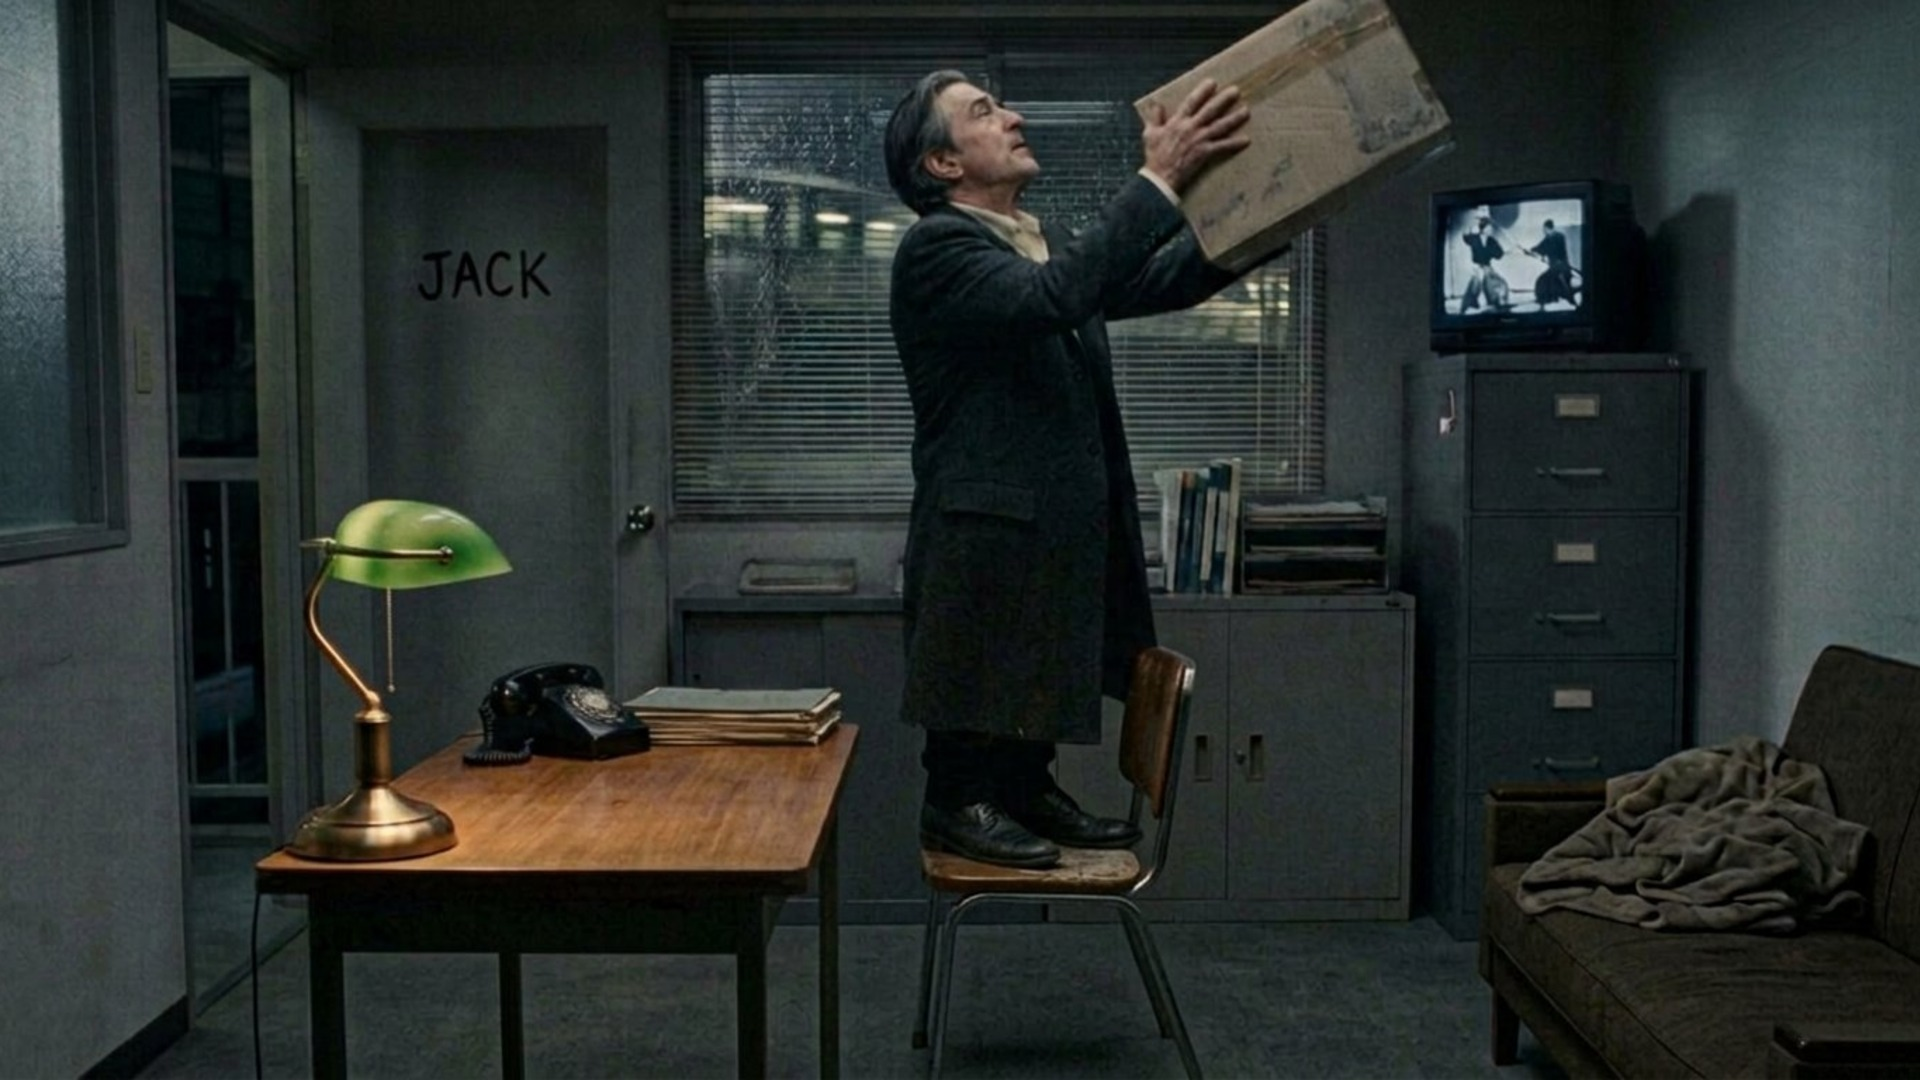
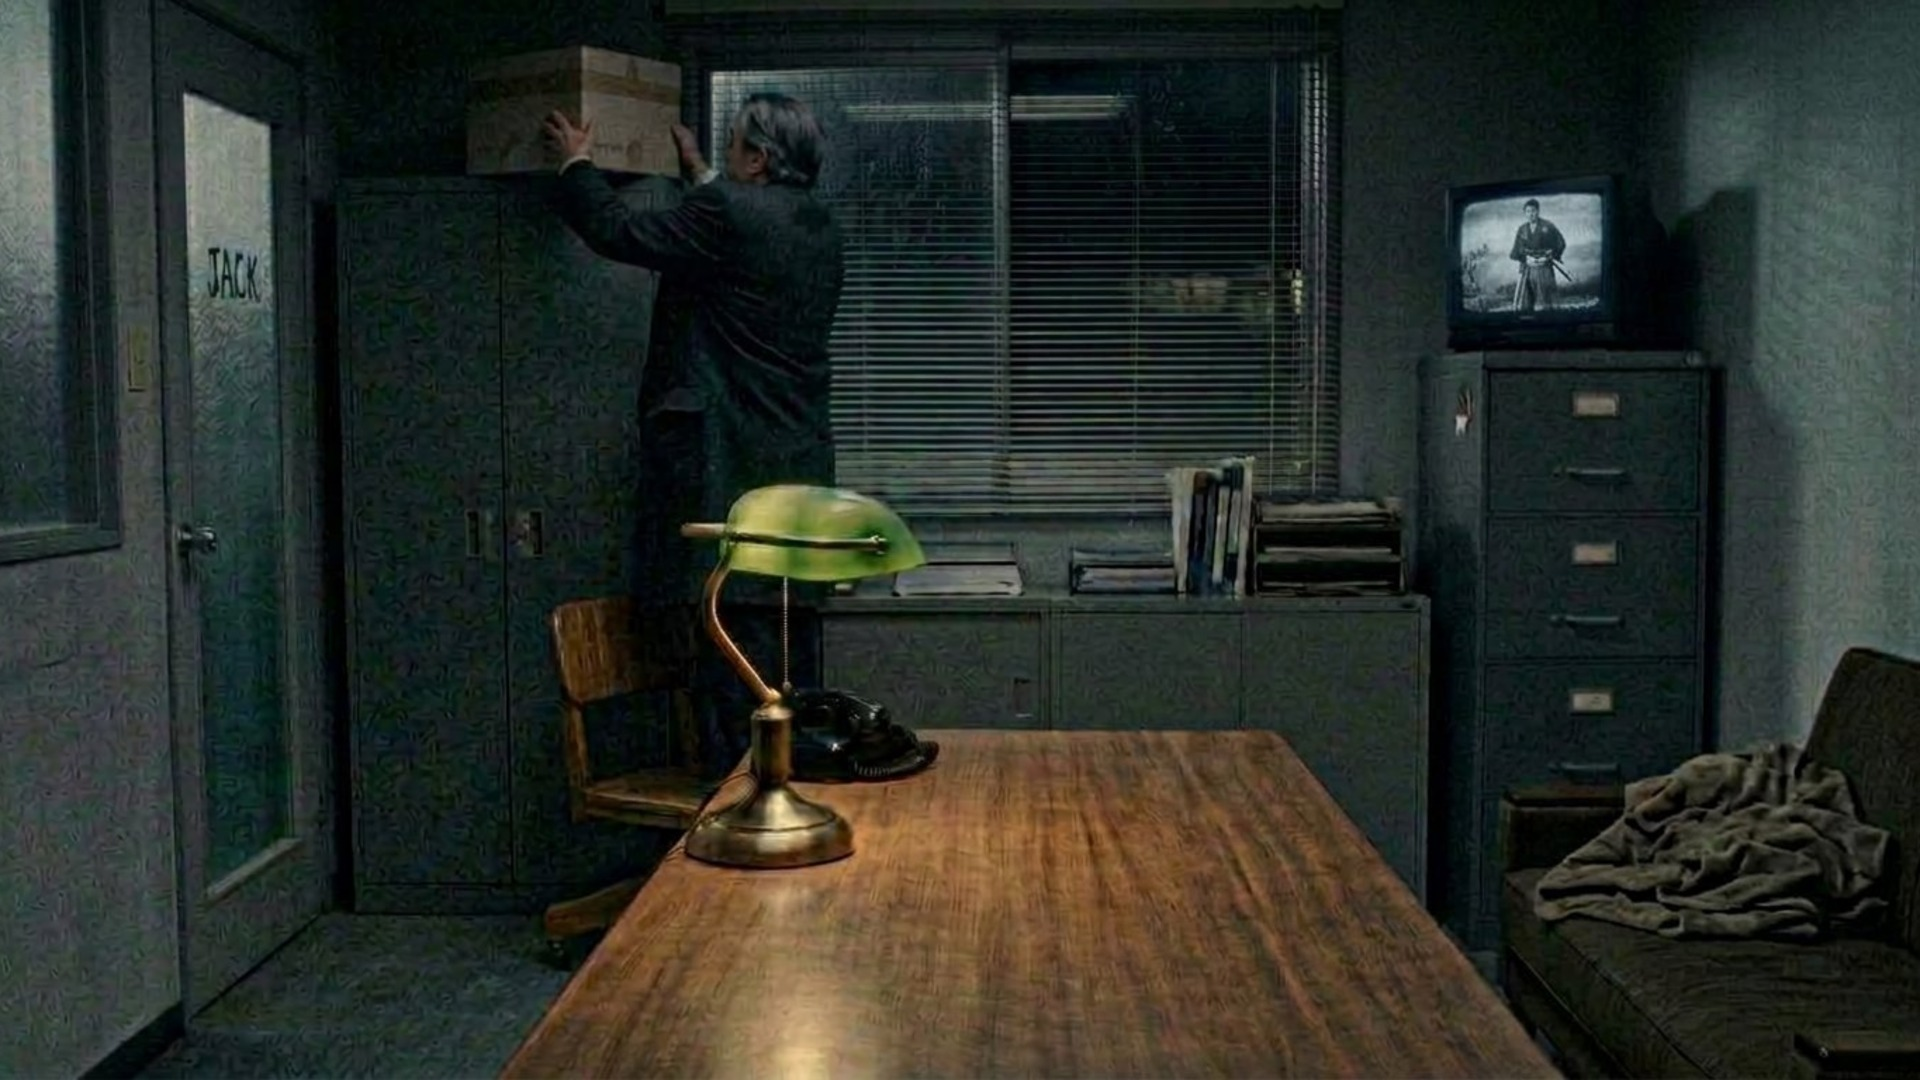
Neonoire: card out of the puddle (6/62); box from a cupboard and fixed desk size in Jack's office (11/243, 11/249)

diff --git a/docs/neonoire/scenes/n11-jacks-office-later.md b/docs/neonoire/scenes/n11-jacks-office-later.md
@@ -21,19 +21,19 @@ LIGHT: Practical night
 TIME: 8
 ID: neonoire-shot-169
 IMAGE: 167-two-men-laughing.jpg
-NOTE: The second attempt; the first made the two men look alike and was discarded. The clipping is shot 246, lettered. The box coming down is shot 245, with a chair caveat — a retake this session still left his feet on the floor. The call to Ishida is shot 251. The lighter is shot 252.
+NOTE: The second attempt; the first made the two men look alike and was discarded. The clipping is shot 246, lettered. The box coming down is shot 245: the box comes off the top of the tall steel cupboard between the door and the window (director correction, 1 October 2026); his feet remain on the floor in the frame, a standing caveat. The call to Ishida is shot 251. The lighter is shot 252.
 
 ---
 
 245. WIDE — 35mm, static, eye level — the box.
-Past midnight. Jack lifts a dusty cardboard box down from the top of the filing cabinet. The green lamp, the rotary phone, the sofa, the blinds. The CRT plays a samurai film.
+Past midnight. Jack lifts a dusty cardboard box down from the top of the tall grey steel cupboard between the door and the window. The long desk of scene 10, the green lamp, the rotary phone, the sofa, the blinds. The CRT plays a samurai film.
 SCRIPT: "Jack stands on a chair and takes down a cardboard box from the top of a cupboard. Dust on the lid. He hasn't opened it in years."
 CAST: Jack
 LIGHT: Practical night
 TIME: 8
 ID: neonoire-shot-245
 IMAGE: 243-the-box.jpg
-NOTE: Coverage, shot 245, the wide shot 169's note asked for. The office follows s10/164-depends-whos-calling.jpg; Jack follows sheets/jack.jpg. The door reads JACK. The CRT is on and never static: the office's muted black-and-white samurai film, even though the draft writes static. Retake: both feet are on the chair seat.
+NOTE: Coverage, shot 245, the wide shot 169's note asked for. The office follows s10/164-depends-whos-calling.jpg; Jack follows sheets/jack.jpg. The door reads JACK. Director correction, 1 October 2026: the box visibly comes down from the top of a tall steel cupboard (the earlier frame lifted it from empty air), and the desk is the long desk of s10/164-depends-whos-calling.jpg, which is the office's fixed desk size. The CRT is on and never static: the office's muted black-and-white samurai film, even though the draft writes static. Caveat: he reaches from the floor beside the chair, not standing on the chair seat.
 
 246. INSERT — 85mm, static, high angle — daniel voss 41.
 Under the green lamp, a yellowed clipping. The photograph is Daniel, not Jack. The headline and the caption are lettered.
@@ -48,14 +48,14 @@ NOTE: Coverage, shot 246. Daniel is held to s4/35-the-photograph.jpg, not to Jac
 ---
 
 251. MEDIUM — 50mm, static, eye level — the line goes dead.
-Jack sits at the desk under the green lamp, the rotary receiver at his ear. Rain on the blinds. The CRT plays a samurai film. The door reads JACK.
+Jack sits behind the long desk under the green lamp, the rotary receiver at his ear, the open box, notebook and clipping in front of him. Rain on the blinds. The CRT plays a samurai film. The door reads JACK; the tall cupboard stands between the door and the window.
 SCRIPT: "The line goes dead. Jack holds the receiver a moment longer."
 CAST: Jack
 LIGHT: Practical night
 TIME: 8
 ID: neonoire-shot-251
 IMAGE: 249-the-line.jpg
-NOTE: Coverage, shot 251. The office follows s11/243-the-box.jpg; Jack follows sheets/jack.jpg. Ishida is voice only and is not in the frame. The CRT is on and never static: the muted black-and-white samurai film.
+NOTE: Coverage, shot 251. Director correction, 1 October 2026: the desk is the long desk of s10/164-depends-whos-calling.jpg — the office's desk no longer changes size between scenes 10 and 11 — and the cupboard matches shot 245. Jack follows sheets/jack.jpg. Ishida is voice only and is not in the frame. The CRT is on and never static: the muted black-and-white samurai film.
 
 252. INSERT — 85mm, static, high angle — the lighter.
 Jack's hand, charcoal sleeve, flicks the old steel lighter open on the desk. A small flame. No cigarettes.

diff --git a/docs/neonoire/passes/office-continuity-2026-10-01.md b/docs/neonoire/passes/office-continuity-2026-10-01.md
@@ -1,0 +1,17 @@
+# Nobody's Witness — scene 6 card and Jack's office continuity
+
+**Director notes, 1 October 2026:** in scene 6 the card sat in the spilled-tea puddle; in scene 11 Jack pulled the box off nothing; Jack's desk changed size between office frames.
+
+## Replacements (same stable paths, 1920×1080)
+
+| Scene | Shot | Asset | Change |
+| --- | --- | --- | --- |
+| 6 | 62 | `s6/62-the-card.jpg` | Edited from the selected frame: the card is slid on the dry table, clear of the puddle. Cup, napkin, hands and grade unchanged. |
+| 11 | 245 | `s11/243-the-box.jpg` | Regenerated: a tall grey steel two-door cupboard stands between the door and the window; the box visibly comes down from its top. The desk is scene 10's long desk (164). CRT keeps the samurai film. |
+| 11 | 251 | `s11/249-the-line.jpg` | Regenerated with the same long desk and cupboard; box, notebook and clipping on the desk. CRT keeps the samurai film. |
+
+**Desk rule:** `s10/164-depends-whos-calling.jpg` is the office's desk — long, spanning most of the room, lamp at the left end. 243 and 249 previously shrank it to a small table.
+
+**Caveat:** in 243 Jack reaches the cupboard top from the floor beside the chair, not standing on the seat as the page writes; three generations would not hold the chair-stand. The screenplay is unchanged (it already says "top of a cupboard").
+
+Previous frames and raw candidates are kept under ignored `artifacts/office-continuity/`. `verify:neonoire`, `verify:shot-order`, `verify:revision:neonoire`, `check:assets` and typecheck pass.

diff --git a/docs/neonoire/scenes/n06-interview-room.md b/docs/neonoire/scenes/n06-interview-room.md
@@ -123,7 +123,7 @@ CAST: Vera Voss, Detective Ishida
 LIGHT: Practical night
 TIME: 22
 IMAGE: 62-the-card.jpg
-NOTE: The card goes across a wet table, and that is the whole scene in one image. End on him cleaning: slow, careful, ordinary, a man tidying away the evidence of someone else's worst hour with the kindness he has left. No music into the cut.
+NOTE: The card goes across a wet table, and that is the whole scene in one image. Director correction, 1 October 2026: the card is slid on the dry part of the table, clear of the spilled tea — it never sits in the puddle. End on him cleaning: slow, careful, ordinary, a man tidying away the evidence of someone else's worst hour with the kindness he has left. No music into the cut.
 
 ## Passes
 
